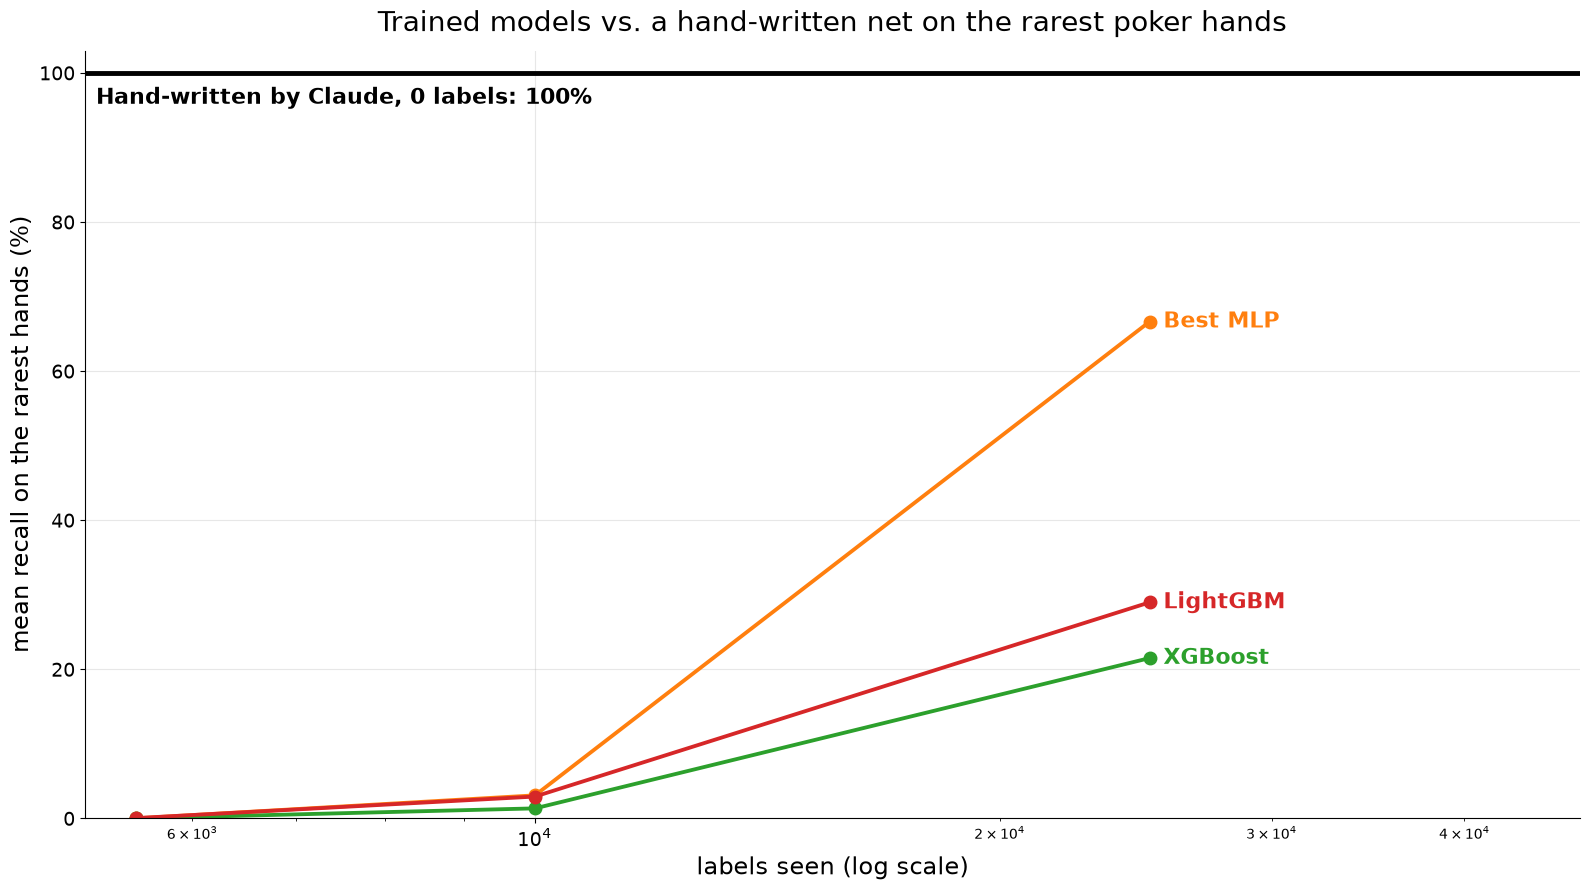
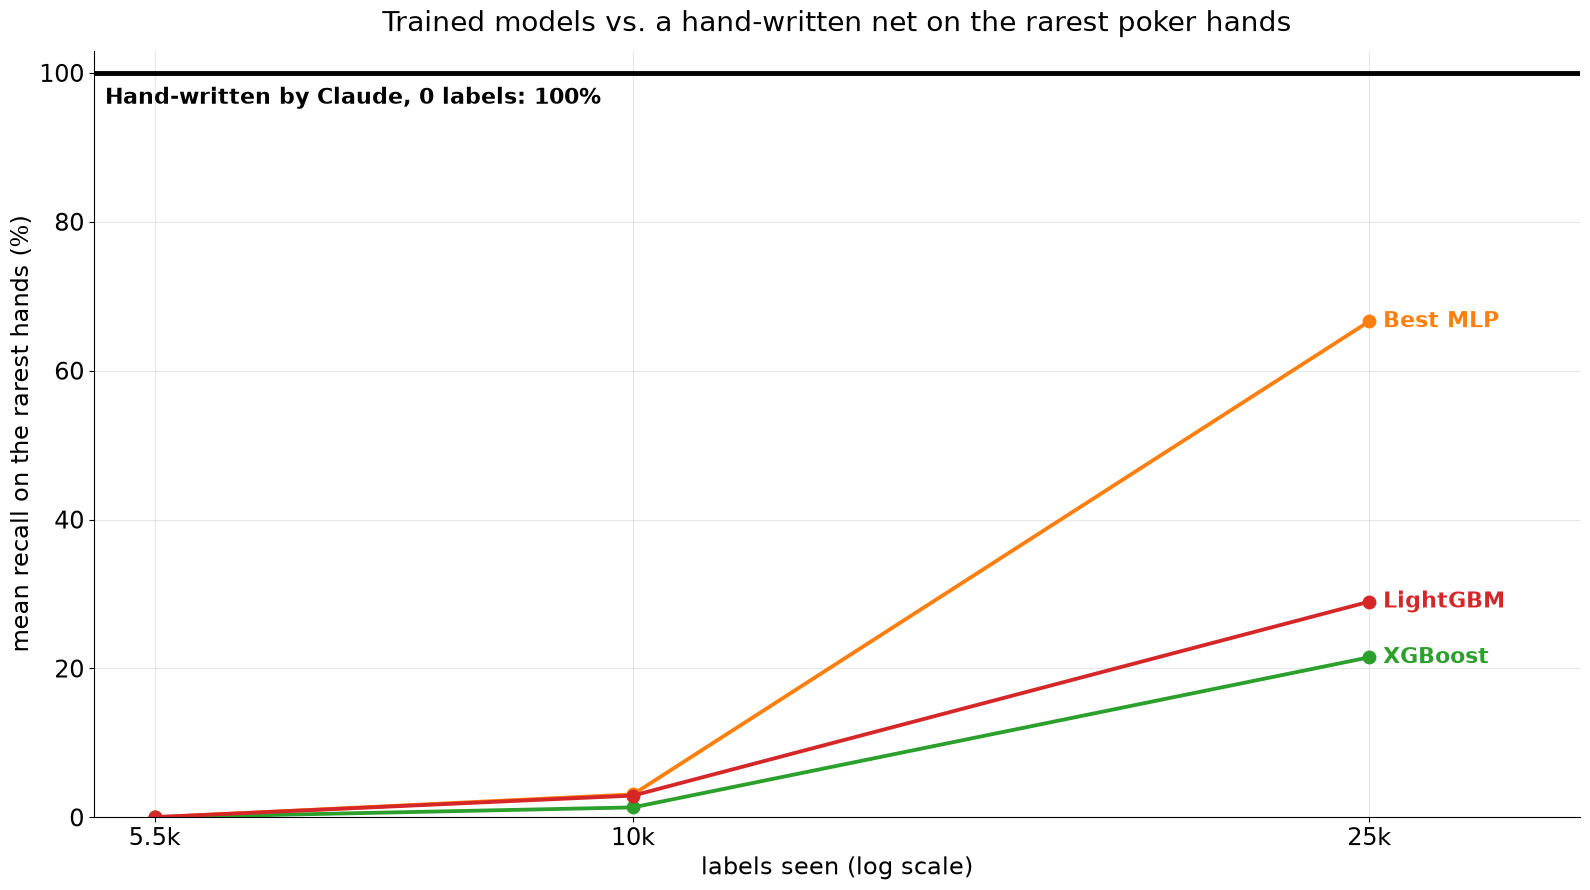
Polish x_rare_hands.png: tighter x-range, plain k-formatted ticks
Clip the x-axis to just past the last data point (1.3x instead of
1.9x) instead of leaving the right third of the chart empty. Replace
log-scale scientific-notation ticks with plain labels at the actual
labels_seen values (5.5k/10k/25k), remove minor ticks, and size tick
labels to match the axis labels for phone readability. Title, the
100% reference line, the direct series labels, and the absence of a
legend are all unchanged.

Claude-Session: https://claude.ai/code/session_012xFp1ELUhL5QeT7aeBwuof

diff --git a/scripts/plot_results.py b/scripts/plot_results.py
@@ -58,6 +58,16 @@ FAMILY_STYLE = {
 }
 
 
+def _format_k(value: float) -> str:
+    """1234 -> '1.2k', 10002 -> '10k' (trailing '.0' dropped) - plain tick
+    labels for the x-rare-hands chart, in place of log-scale scientific
+    notation."""
+    text = f"{value / 1000:.1f}"
+    if text.endswith(".0"):
+        text = text[:-2]
+    return f"{text}k"
+
+
 def rare_recall_avg(row: dict) -> float:
     vals = row["per_class_recall"][6:10]
     return sum(v if v is not None else 0.0 for v in vals) / len(vals)
@@ -132,23 +142,29 @@ def plot_x_rare_hands(agg: dict, budgets: list[int], handnet: dict) -> None:
     )
 
     max_x = 0
+    tick_values: set[int] = set()
     for fam, style in X_RARE_HANDS_SERIES.items():
         xs = [agg[(fam, b)]["labels_seen"] for b in budgets]
         ys = [agg[(fam, b)]["rare_mean"] * 100 for b in budgets]
         max_x = max(max_x, xs[-1])
+        tick_values.update(xs)
         ax.plot(xs, ys, marker="o", markersize=9, linewidth=2.75, color=style["color"])
         ax.annotate(
             style["label"], xy=(xs[-1], ys[-1]), xytext=(10, 0), textcoords="offset points",
             fontsize=16, fontweight="bold", color=style["color"], va="center", ha="left",
         )
+    assert len(tick_values) == len(budgets), "families disagree on labels_seen; ticks would be misleading"
 
     ax.set_xscale("log")
-    ax.set_xlim(right=max_x * 1.9)
+    ax.set_xlim(right=max_x * 1.3)
     ax.set_ylim(0, 103)
     ax.set_xlabel("labels seen (log scale)", fontsize=17)
     ax.set_ylabel("mean recall on the rarest hands (%)", fontsize=17)
     ax.set_title("Trained models vs. a hand-written net on the rarest poker hands", fontsize=20, pad=14)
-    ax.tick_params(axis="both", labelsize=14)
+    ax.set_xticks(sorted(tick_values))
+    ax.set_xticklabels([_format_k(v) for v in sorted(tick_values)])
+    ax.minorticks_off()
+    ax.tick_params(axis="both", labelsize=17)
     ax.grid(alpha=0.3)
     for spine in ("top", "right"):
         ax.spines[spine].set_visible(False)
